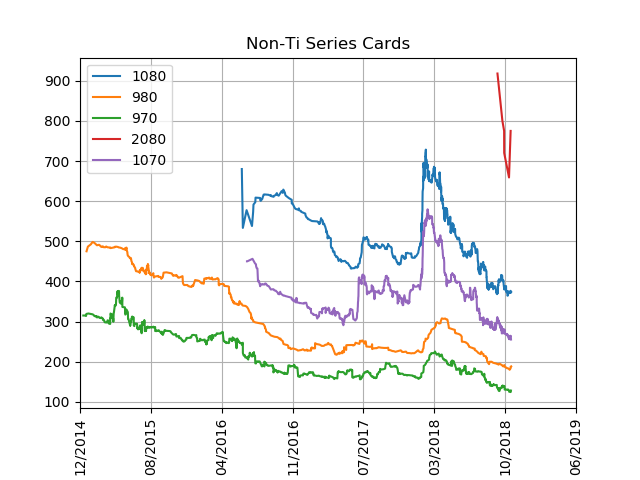
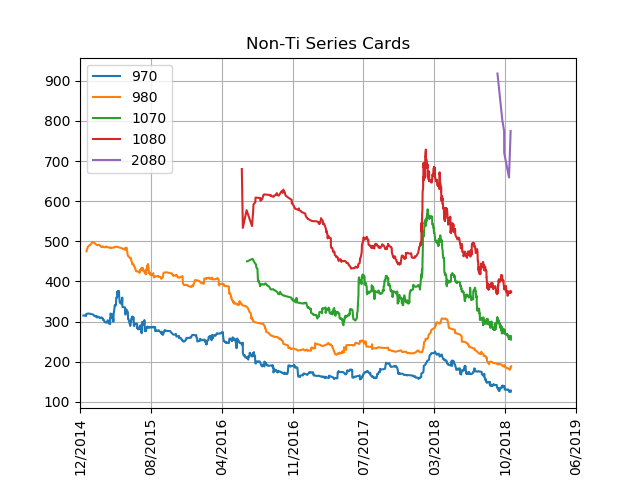
logical order to card series

diff --git a/hardwareswap_scraper/plot_data.py b/hardwareswap_scraper/plot_data.py
@@ -7,6 +7,11 @@ import matplotlib.pyplot as plt
 avg_over = 25
 data_path = "hardwareswap_scraper/"
 fnames = [x for x in os.listdir(data_path) if ("valid_prices" in x) and (x[0] != ".")]
+fnames = ["970_valid_prices.csv",
+            "980_valid_prices.csv",
+            "1070_valid_prices.csv",
+            "1080_valid_prices.csv",
+            "2080_valid_prices.csv",]
 
 def moving_average(a, n=3):
     ret = np.cumsum(a, dtype=float)
@@ -34,7 +39,7 @@ for fname in fnames:
         if idx == 0:
             continue
         l = line.split(",")
-        if "ti" in l[1].lower():
+        if "ti" not in l[1].lower():
             continue
         year = int(l[4])
         month = int(l[5])
@@ -71,8 +76,8 @@ plt.xticks(locs,labels,rotation='vertical')
 plt.subplots_adjust(bottom=0.15)
 
 
-plt.title("Non-Ti Series Cards")
-plt.savefig(os.path.join(data_path,"Non-Ti_cards.png"))
+plt.title("Ti Series Cards")
+plt.savefig(os.path.join(data_path,"Ti_cards.png"))
 plt.show()
 
         
